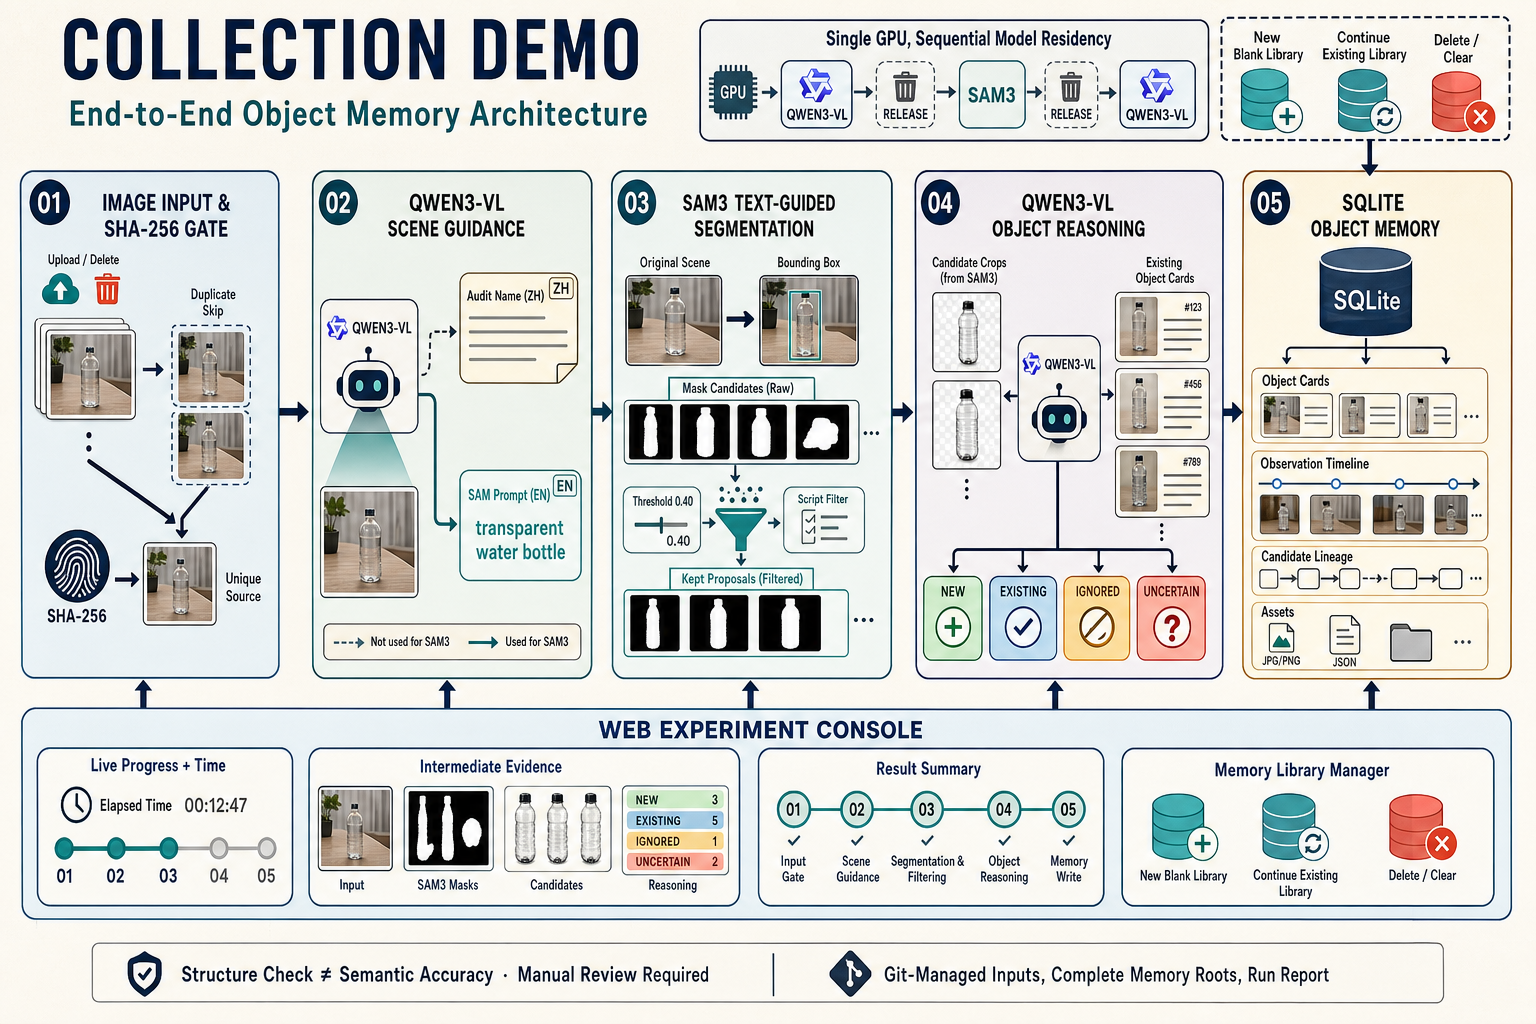
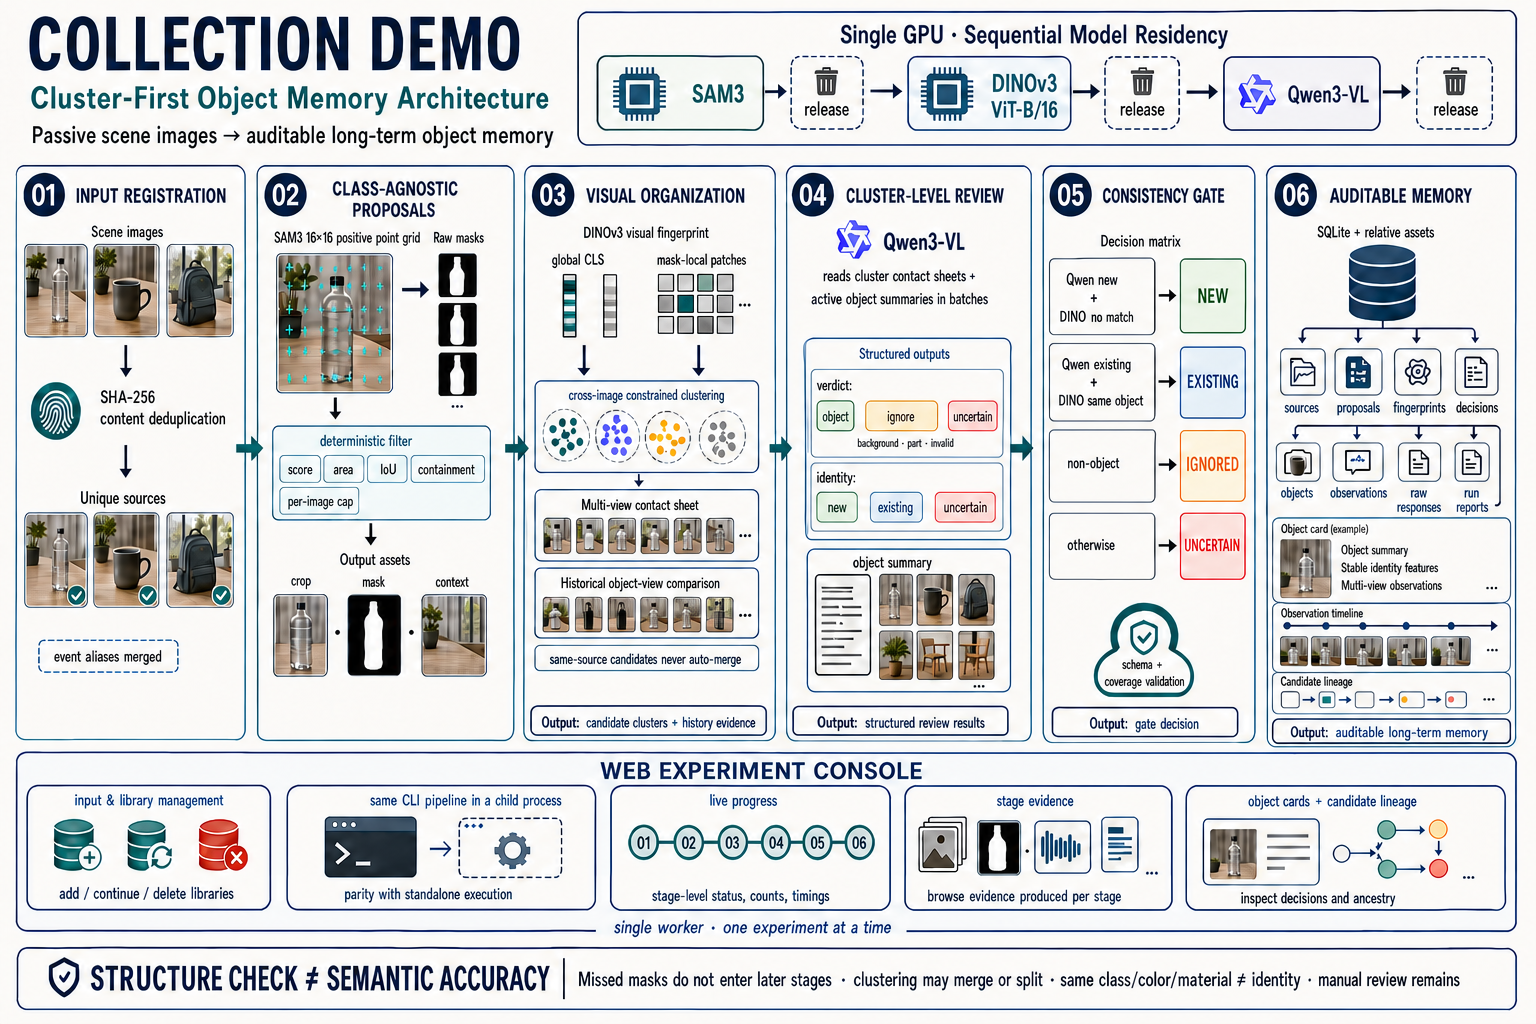
docs: redraw current architecture poster

diff --git a/src/object_memory/__init__.py b/src/object_memory/__init__.py
@@ -1,3 +1,3 @@
 """Explicit object-memory demo package."""
 
-__version__ = "0.22.3"
+__version__ = "0.22.4"

diff --git a/AGENTS.md b/AGENTS.md
@@ -28,7 +28,7 @@
 
 ## 2. 当前项目管理摘要
 
-- **版本**：v0.22.3
+- **版本**：v0.22.4
 - **当前关卡**：M5-B——端到端对象记忆验收
 - **当前状态**：最新服务器报告为 `run_20260807T122430273165Z`，首次给出v0.22自动候选流程的真实模型证据：5张唯一图产生1280个SAM3原始候选，脚本保留22个，DINOv3形成18个聚类，Qwen用3次调用完成审查，最终写入3个对象和8条观测；5个source全部完成、结构检查全部通过、无外部错误。报告顶层被标为 `failed` 的唯一原因是旧Web在空白库上自动启用固定Demo门槛，而本次5张图没有完全重复文件，`pipeline_status`实际为 `passed`。但白色鼠标摘要把已知的人体工学非对称鼠标写成“对称设计”，说明类内区别文字仍不可靠。本次只推送了外部报告，没有推送对应5张输入和完整记忆根，因此不能完成图片、SQLite和资产级效果审计，M5-B仍未通过
 - **当前协作方向**：v0.22.2取消Web自动启用固定Demo内容门槛，任意上传只按流程和数据结构判断；CLI仍可显式使用 `--validate-demo` 复现约定样本。Web自动分割页改为按图片折叠保留候选，视觉聚类页集中解释聚类约束、编号和CLS相似度；v0.22.3补充类内文字误判审计。服务器拉取后先完成单元测试并重启Web；如需对本次语义效果作正式审计，应补充对应输入和完整记忆根。当前证据仍不能证明类内描述、同类不同实例辨识或默认聚类阈值有效
@@ -41,6 +41,7 @@
 | 文件 / 路径 | 唯一职责 | 维护要求 |
 |---|---|---|
 | `README.md` | 对外项目展示和新人入口：项目价值、简洁架构与原理、可见能力、能力边界、最小快速开始和文档导航 | 不复制详细实现、模型字段、数据树、当前实验数字或项目管理内容；不写 AI 指令、当前版本、里程碑、下一动作、Git 协作或维护流程 |
+| `docs/assets/collection-demo-architecture.png` | README 使用的当前公开架构海报：按实际实现展示主流程、模型顺序、审计闭环和能力边界 | 主流程、模型职责、决定枚举或 Web 审计结构变化时重绘；不得写入未经证实的指标或把结构通过等同于语义准确 |
 | `data/README.md` | 固定 Demo 输入与运行时记忆输出契约 | 数据布局或运行方式变化时更新；不记录实验完成结论 |
 | `AGENTS.md` | AI 协作规范、项目管理入口、开发准则、当前管理摘要与协作方向、版本及 Git 规则 | 管理决策、协作方向或当前摘要变化时同步更新 |
 | `DEMO自动候选视觉聚类优化方案.md` | 当前实现与后续实验验收基线：开发前配置、SAM3自动候选、DINOv3聚类、Qwen聚类审查、存储、Web和验证顺序 | 用户改变设计、代码偏离规划或实验事实要求调整时更新；必须区分已实现代码与已验证能力 |

diff --git a/PROGRESS.md b/PROGRESS.md
@@ -2,7 +2,7 @@
 
 > 本文用大白话记录当前实验处于什么状态、最近一次真实实验每一步发生了什么，以及审计后能得出什么结论。后续优化清单见 `docs/05_后续优化清单.md`。
 
-- **当前版本**：v0.22.3
+- **当前版本**：v0.22.4
 - **最后更新**：2026-08-07
 - **当前关卡**：M5-B——端到端对象记忆验收
 - **当前实验状态**：最新服务器运行的自动候选新流程实际通过：5张唯一图形成3个对象和8条观测；报告标红仅因旧Web错误套用“必须有重复图”的固定Demo门槛。但白色鼠标的类内特征被误写为“对称设计”。本次只推送外部报告，缺少配套输入与完整记忆根，M5-B仍未通过
@@ -20,6 +20,7 @@
 - v0.22.0弃用v0.21的逐图Qwen→SAM3文本提示设计，恢复SAM3固定点网格候选，在脚本过滤后用DINOv3组织跨图候选聚类，再由Qwen按聚类批次判断完整物体、背景/零件和对象摘要；三个模型改为分阶段顺序驻留。新增聚类接触表、报告schema 8和Web解释链，并修复进度事件与正式报告使用不同图片键时同一输入重复显示的问题。
 - v0.22.0首次服务器回归共运行101项测试，其中100项通过；唯一错误是测试代码引用未赋值的 `pipeline`。v0.22.1修正该测试夹具。最新真实运行进一步证明业务流程可以完成，但本次push没有附带新的完整测试输出。
 - v0.22.2取消Web自动启用固定Demo内容门槛，避免自由上传因“没有重复图”被误判失败；同时将自动分割按源图折叠，并在视觉聚类摘要统一解释编号、同图约束和CLS相似度。
+- v0.22.4仅重绘并嵌入当前聚类优先架构海报，补充核心文档之间的导航和海报维护职责；算法、配置、实验产物与上述验收结论均未改变。
 
 ## 2. 如何阅读实验记录
 

diff --git a/CHANGELOG.md b/CHANGELOG.md
@@ -2,6 +2,11 @@
 
 > **维护规则（强制）**：CHANGELOG 由本地 AI 统一维护。用户可直接 push 服务器生成的报告；收到通知后，AI 必须先 pull、分析变化，再在后续维护提交中补记该进展。每个 AI push 都必须新增版本、北京时间和简短摘要，最新版本位于最上方。
 
+## v0.22.4 — 2026-08-07 21:05:47 +08:00
+
+- 按当前实现重绘学术风架构海报，替换旧的 Qwen→SAM3 文本提示流程图，完整展示 SHA-256 输入去重、SAM3 自动点网格、确定性过滤、DINOv3 双层指纹与跨图约束聚类、Qwen 聚类级审查、一致性决定和可审计对象记忆。
+- 在 README 直接嵌入海报，并让运行指南与当前设计基线链接到同一总览；新增海报文档职责，明确流程变化时同步重绘以及“结构检查不等于语义准确”的表达边界。未修改算法、配置或实验产物。
+
 ## v0.22.3 — 2026-08-07 21:03:20 +08:00
 
 - 补充最新报告的类内文字审计：白色鼠标摘要将用户已确认的人体工学非对称外形写成“对称设计”，且品牌/标记为空。明确区分“流程与对象归并成功”和“类内区别描述正确”，M5-B及类内描述能力仍未通过。本批次只修正文档事实，不修改算法与实验产物。

diff --git a/docs/04_业务代码运行与验证指南.md b/docs/04_业务代码运行与验证指南.md
@@ -1,6 +1,6 @@
 # 业务代码运行与验证指南
 
-本文说明当前 Demo 的稳定代码契约、运行方式和结果解释。真实实验事实与验收结论只见根目录 `PROGRESS.md`；本文不把尚未在服务器运行的新流程写成已验证能力。
+本文说明当前 Demo 的稳定代码契约、运行方式和结果解释。面向读者的架构总览见 [README 海报](../README.md#架构)；真实实验事实与验收结论只见根目录 `PROGRESS.md`，本文不把尚未验证的语义能力写成已通过。
 
 ## 1. 正式流程
 

diff --git a/DEMO自动候选视觉聚类优化方案.md b/DEMO自动候选视觉聚类优化方案.md
@@ -2,6 +2,8 @@
 
 > 本文取代已删除的 `DEMO优化方案.md`，是当前“自动候选 → 视觉聚类 → 聚类语义审查”实现与后续实验的设计依据。代码实现不等于服务器验证；真实运行事实仍以 `PROGRESS.md` 为准。
 
+面向读者的当前架构总览见 [README 海报](README.md#架构)；本文保留配置、算法约束和验收顺序等实现级细节。
+
 ## 0. 开始运行前先配置什么
 
 ### 0.1 服务器路径
